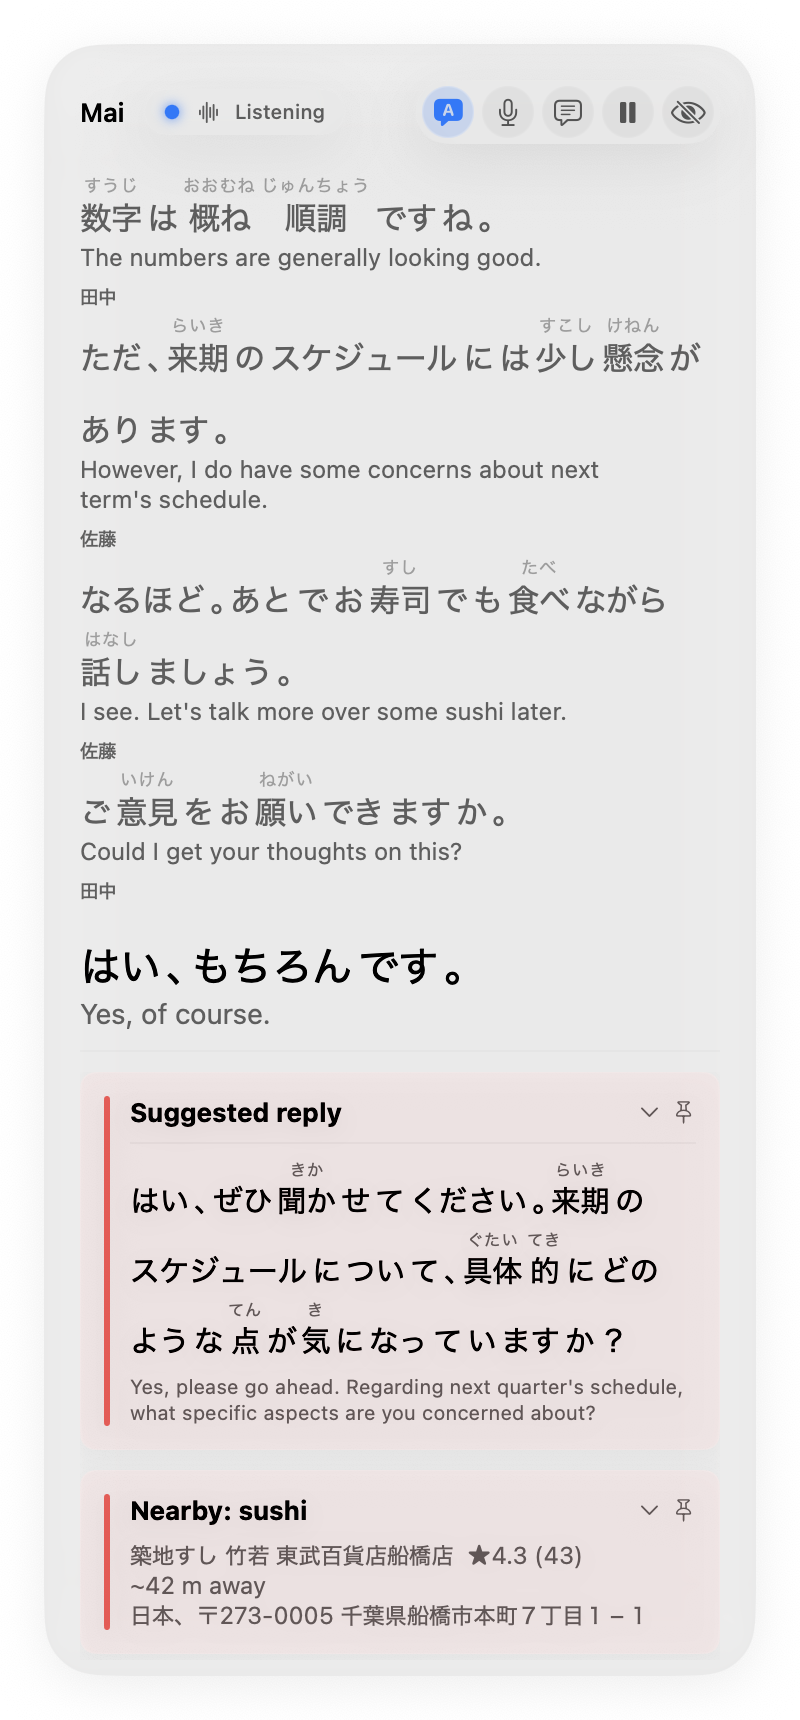
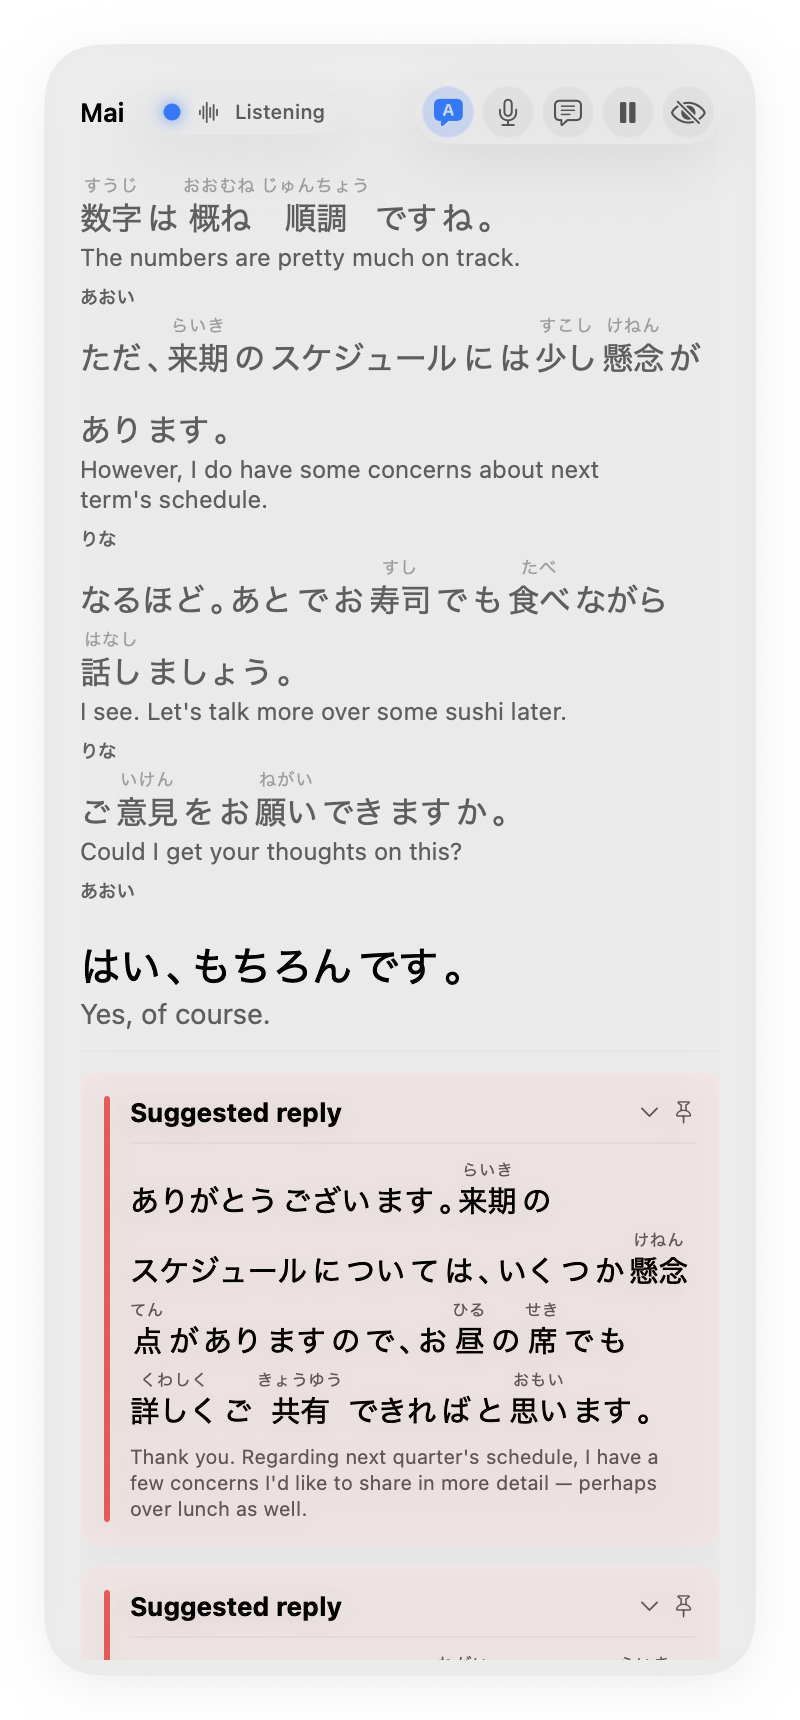
Rewrite the README around what Mai actually does
- Lead with English, then a short Japanese and Chinese summary
- Four Mission mode screenshots from scripted demos: a Japanese conversation with
  furigana and per-line translation, a film card with a real poster and the nearest
  cinema, a coaching card, and a close-up of the controls
- Install section pointing at the signed disk image, in English, Japanese, and
  Chinese, including the one-time right-click that an unnotarized build needs
- A plain how-to: getting each key and what it is for, granting the two permissions,
  what every button does, and where the panel goes, with the button and pause
  explanations repeated in Japanese and Chinese
- Explain the redaction layer in the privacy section, including what it does not cover

diff --git a/README.md b/README.md
@@ -1,141 +1,239 @@
 # Mai
 
-Mai is an ambient awareness app for macOS. It listens to the microphone and the system
-audio of a call, watches the screen, and surfaces small, sourced information cards in
-real time. It is trilingual (English, Japanese, Chinese), shows a live transcript with
-real speaker names and furigana or pinyin as true ruby, and can suggest a sentence to
-say back in the language the other person is speaking.
+Mai is an ambient awareness app for macOS. It listens to your microphone and to the
+other side of a call, watches your screen, and quietly surfaces small, sourced cards
+while you talk. It reads Japanese and Chinese with furigana and pinyin above the
+characters, translates each line as it lands, and can suggest a sentence to say back
+in the language the other person is speaking.
 
-Everything runs on your own accounts. You bring your own API keys, capture stays on
-your machine, and there is no backend and no telemetry. The repo is the whole product.
+Everything runs on your own API keys. Nothing is sent anywhere except to the providers
+you configure, and personal details are stripped out before that happens.
+
+**日本語:** Mai は macOS 用の常時待機型アシスタントです。会話をリアルタイムで文字起こしし、漢字にはふりがな、各行には翻訳が付きます。相手の言語のまま返せる一文を提案し、話題に関連する情報カードを静かに表示します。API キーはご自身のものを使い、送信前に個人情報は自動で伏せられます。
+
+**中文:** Mai 是一款 macOS 常驻感知应用。它实时转写对话，为汉字标注拼音并逐行翻译，还能用对方所说的语言给出可直接说出口的回复建议，并安静地推送相关信息卡片。使用你自己的 API 密钥，发送前会自动隐去个人信息。
+
+---
+
+## What it looks like
+
+Mai's resting state is **Mission mode**: a floating panel at the top right that stays
+in front of every app, including full-screen calls, without stealing focus. It uses
+Liquid Glass on macOS 26 so it reads as a real system surface rather than a window
+parked on top of your work, and falls back to standard materials on older systems.
+
+A Japanese conversation, with furigana above the kanji, an English translation under
+every line, and a suggested reply you could say back:
+
+![Mission mode showing a Japanese conversation with furigana and translations](docs/images/mission-japanese.png)
+
+Two friends talking about a film. Mai pulls the real poster and summary, and finds the
+closest cinema, without either of them asking it anything:
+
+![Mission mode showing a film card with a poster and a nearby cinema](docs/images/mission-movies.png)
+
+The conversation coach reads the moment and suggests a concrete next move, plus a
+sentence you could actually say:
+
+![Mission mode showing a coaching card and a suggested reply](docs/images/mission-coach.png)
+
+---
+
+## Install
+
+**English.** Download **Mai.dmg** from the
+[latest release](https://github.com/antswj/mai/releases/latest), open it, and drag Mai
+into your Applications folder. The first time you open it, right-click (or
+Control-click) the app and choose **Open**, then confirm. You only need to do that
+once; it is because the app is signed but not yet notarized by Apple. After that, open
+it normally.
+
+**日本語.** [最新リリース](https://github.com/antswj/mai/releases/latest)から **Mai.dmg**
+をダウンロードし、開いて Mai をアプリケーションフォルダにドラッグします。初回のみ、Mai を
+右クリック（または Control キーを押しながらクリック）して「開く」を選び、確認してください。
+これは Apple の公証がまだ済んでいないためで、次回からは通常どおり開けます。
+
+**中文.** 从[最新版本](https://github.com/antswj/mai/releases/latest)下载 **Mai.dmg**，
+打开后把 Mai 拖进「应用程序」文件夹。首次打开时，请右键（或按住 Control 点按）Mai 并选择
+「打开」，然后确认。这是因为应用已签名但尚未通过 Apple 公证，之后就可以正常打开了。
+
+---
+
+## How to use Mai
+
+### 1. Get your keys
+
+Mai does not have a server. It uses your own accounts, so you need to paste in a few
+keys the first time. Onboarding walks you through it and stores them in the macOS
+Keychain, never in a file.
+
+| Key | What it does | Where to get it |
+| --- | --- | --- |
+| Soniox | Turns speech into text. This is the one Mai really needs. | soniox.com, then add credit |
+| Anthropic | Writes the card answers and the suggested replies | console.anthropic.com |
+| Gemini | Reads your screen and does web searches with sources | aistudio.google.com |
+| Google Places | Finds places nearby | console.cloud.google.com, enable "Places API (New)" |
+| Hot Pepper | Restaurants in Japan | webservice.recruit.co.jp |
+
+Each one is free to create. Soniox is pay as you go, so put a little credit on it or
+you will get no transcript. Anything you skip just turns off that feature; Mai still
+runs.
+
+**日本語.** Mai にはサーバーがありません。ご自身のアカウントを使うため、初回に API キーを
+入力します。入力したキーは macOS の Keychain に保存され、ファイルには残りません。文字起こし
+には Soniox が必須で、残高がないと文字起こしは行われません。他のキーは省略でき、その機能だけ
+がオフになります。
+
+**中文.** Mai 没有服务器，使用的是你自己的账号，因此首次启动时需要填入 API 密钥。密钥保存在
+macOS 钥匙串中，不会写入文件。语音转写必须要有 Soniox 并保持余额，否则不会生成文字。其他密钥
+可以留空，只会关闭对应功能。
+
+### 2. Give it permission to hear and see
+
+macOS asks twice: once for the **microphone**, once for **screen and system audio
+recording**. Say yes to both, then quit Mai and open it again, because macOS only
+applies the screen permission after a restart. Without the microphone Mai hears
+nothing; without screen recording it cannot hear the other person on a call.
+
+### 3. Talk
+
+That is the whole thing. Mai sits in your menu bar and listens. When something in the
+conversation is worth knowing, a card slides in at the top right. When nothing is
+happening, it stays out of your way.
+
+### 4. The buttons
+
+Mission mode has five controls along the top:
+
+![The Mission mode control buttons](docs/images/mission-controls.png)
+
+From left to right:
+
+- **A** turns the translation line under each sentence on and off.
+- **Microphone** mutes you. Your own voice stops being transcribed, but the other
+  person and your screen keep going. Use this when you step away from a call.
+- **Speech bubble** opens a chat box. You can ask "what are they talking about" and
+  get an answer based on the real transcript, including what you said.
+- **Pause** stops everything. Nothing is captured, transcribed, read, or stored until
+  you press it again. This is a real switch, not a mute: it closes the connections.
+- **Eye** hides the panel. Mai keeps working; you just stop seeing it. Bring it back
+  from the menu bar.
+
+**日本語.** ミッションモードのボタンは左から、翻訳の表示切り替え、マイクのミュート（自分の声
+だけ停止し、相手と画面はそのまま）、チャット、一時停止（取得・文字起こし・画面読み取り・保存
+をすべて停止）、パネルを隠す、の五つです。
+
+**中文.** 任务模式顶部的五个按钮，从左到右依次是：切换翻译行、静音麦克风（只停用你自己的声音，
+对方与屏幕照常）、聊天、暂停（完全停止采集、转写、读屏与保存）、隐藏面板。
+
+### 5. Where the panel goes
+
+Mission mode appears on its own when there is something to show and slides away when
+things go quiet. To keep it up, turn on **Keep the HUD pinned open** in Settings. To
+summon it instantly from any app, set a **summon shortcut** in Settings.
+
+Open the full window from the menu bar when you want the whole transcript, every card,
+notes, and the spend meter. Closing that window returns Mai to the panel.
+
+---
 
 ## What it does
 
-- **Live transcript.** Microphone and system audio are transcribed separately and merged
-  into one speaker-attributed transcript. Remote speakers are named from the on-screen
-  call tiles when possible. An optional Translate switch adds a same-speed translation
-  line under each utterance.
-- **Cards.** When something in the conversation or on the screen is worth surfacing, a
-  card appears instantly and fills in live: local math and unit conversions, Wikipedia
-  entities with images and sources (resolved across languages), grounded web answers with
-  real links for anything current, and plain technical explanations. Nothing is ever
-  fabricated; a lookup that finds nothing says so.
-- **Suggested replies.** With the Reply toggle on, Mai drafts a response in the language
-  being spoken, with furigana or pinyin and a translation. The conversation coach can
-  also suggest a concrete sentence to say back to the other person, in their language,
-  grounded in recognized communication frameworks. Suggestions are drafts you choose to
-  say, adapt, or ignore. Both are off by default.
-- **Voice coaching.** Vocal features (pace, pauses, energy, rough pitch) are computed
-  locally from the audio; only that compact summary plus the transcript window is sent
-  for analysis. It never claims anyone is lying or diagnoses intent; that is a hard
-  filter, not a guideline.
-- **Meeting notes.** Start note-taking, hold the meeting, stop: Mai writes structured
-  notes, verifies every line against what was actually said, titles the meeting, and
-  saves a .docx plus a timestamped Markdown transcript to a folder you choose.
-- **Session transcripts.** Independent of note-taking, Mai can save a plain transcript
-  (no model calls, just what was said) every time a session ends, or on demand with the
-  Save Transcript button. Off by default.
-- **Two faces.** A glassy heads-up panel at the top right that floats over every app,
-  including full-screen calls, without stealing focus; and a full window with the
-  transcript, cards, chat assistant, notes, and a spend meter. A menu bar item is the
-  always-on anchor.
-- **Cost control.** An on-device voice activity detector (Silero VAD, local ONNX) opens
-  the transcription stream only while someone is speaking and tears it down in silence.
-  A spend meter shows the estimated daily cost from local counts.
-- **Self-watching capture.** Liveness is tracked per source. A dead microphone, a
-  rejected transcription stream, or audio that is heard but never forwarded surfaces as
-  an honest message in Health instead of a silent forever-"Capturing".
-- **Echo suppression.** With speakers instead of headphones, remote voices are not
-  transcribed twice: the mic copy is dropped by capture-time energy overlap plus text
-  matching.
+- **Live transcript.** Your microphone and the call audio are transcribed separately
+  and merged into one conversation, with each person named. Remote speakers get real
+  names from the on-screen call tiles when it can work them out.
+- **Reading aids.** Furigana above kanji and pinyin above hanzi, rendered properly
+  above the characters rather than in brackets after them. Turn on translation and
+  each line gets its meaning underneath.
+- **Cards.** Sourced answers that appear on their own: local arithmetic, encyclopedia
+  entries with real pictures, grounded web answers with links for anything current,
+  and plain explanations for technical questions. Nothing is invented; a lookup that
+  finds nothing says so.
+- **Suggested replies.** A sentence you could say next, in the language being spoken,
+  with reading aids and a translation. Off by default.
+- **Conversation coaching.** Vocal features (pace, pauses, energy, rough pitch) are
+  measured on your Mac and only that summary is sent, never the audio. It suggests a
+  move and, when the other person is speaking, something to say. It never claims
+  anyone is lying, and that is enforced in code, not just asked for in a prompt.
+- **Meeting notes.** Start note-taking, hold the meeting, stop. Mai writes structured
+  notes, checks every line against what was actually said, titles it, and saves a Word
+  document and a Markdown transcript to a folder you choose.
+- **Session transcripts.** Separately from notes, Mai can save a plain transcript when
+  a session ends, or on demand. Off by default.
+- **Costs stay low.** On-device voice detection opens the transcription stream only
+  while somebody is speaking. A spend meter shows the estimated daily cost.
 
-## Requirements
+## Privacy
 
-- macOS 15 or later, Swift 6 toolchain. Command Line Tools are enough; the Liquid Glass
-  look needs the macOS 26 SDK and falls back to standard materials on older toolchains.
-- Your own API keys: Anthropic or Groq (language), Soniox (real-time transcription,
-  funded), Gemini (screen reads and grounded search), Google Places and Hot Pepper
-  (nearby places). Each is optional except transcription; missing keys degrade features
-  rather than break the app.
-- First build fetches GRDB, ZIPFoundation, and ONNX Runtime once.
+Mai listens continuously, so this part matters.
 
-## Setup
+**Personal details are removed before anything is sent.** Names, emails, phone
+numbers, addresses, card numbers, and id numbers are found in each line on your Mac
+and swapped for stable placeholders, so a provider sees "Person A" where you see the
+real name. The mapping stays in memory on your machine, is never written to disk, and
+the real names are put back in everything you see. Because the placeholder is stable
+for the session, replies stay just as good. This runs once per line in the background,
+so it costs you nothing in speed. It covers text; the audio sent for transcription and
+the screen images sent for reading are the raw material itself. Detection is strong,
+not perfect. Settings, Privacy has a master switch and per-category controls.
 
-For the app, keys are entered in onboarding and stored in the macOS Keychain, never a
-file. For command line development, use a `.env`:
+Everything else stays local. Voice detection runs entirely on your Mac, so audio only
+leaves while somebody is actually speaking. **Pause** closes the connections outright.
+Coaching features are computed on-device and the raw audio is never uploaded. There is
+no telemetry and no server. Saved notes and transcripts go only to the folder you
+chose. See `SECURITY.md` for the full surface.
+
+## Build it yourself
 
 ```
-cp .env.example .env
+git clone https://github.com/antswj/mai.git
+cd mai
+cp .env.example .env          # for command line development only
 git config core.hooksPath .githooks
-```
-
-Fill in the keys on the named lines. `.env` is gitignored; the pre-commit hook blocks
-secrets and captured data from ever being committed.
-
-## Run
-
-Real capture needs Screen Recording and Microphone permissions, which only an app bundle
-can hold:
-
-```
 ./make-app.sh
 open Mai.app
 ```
 
-Grant both permissions, then quit and reopen (macOS applies Screen Recording after a
-relaunch). If permission prompts stop appearing after rebuilds, create a self-signed
-"Mai Dev" code-signing certificate in Keychain Access once, reset with
-`tccutil reset ScreenCapture com.mai.app` and `tccutil reset Microphone com.mai.app`,
-rebuild, and grant again; with a stable certificate the grants persist.
-
-Without the bundle, `swift run Mai` runs a dev mode with typed input and no capture.
+macOS 15 or later and a Swift 6 toolchain. Command Line Tools are enough; the Liquid
+Glass look needs the macOS 26 SDK and falls back to standard materials without it.
+`swift run Mai` runs a dev mode with typed input and no capture.
 
 ## Configure
 
-`config.toml` is the tuning surface: providers and model ids, languages, surfacing
-thresholds, voice activity gating, session rollover, transcript saving, coaching, echo
-suppression. Every setting has a comment. The most useful:
+`config.toml` is the tuning surface, and every setting has a comment. The ones worth
+knowing:
 
-- `[response] enabled`: the Reply toggle default (also a switch in the app).
-- `[session] save_transcript`: write a plain transcript on every session end.
-- `[surfacing] threshold` and `adaptive_quiet`: how chatty the cards are.
-- `[providers] llm`: `anthropic` or `groq`, with model ids under `[models]`.
+- `[response] enabled` turns suggested replies on, including the coach's.
+- `[privacy] redact_before_send` and its per-category switches.
+- `[session] save_transcript` writes a transcript every time a session ends.
+- `[surfacing] threshold` and `adaptive_quiet` control how chatty the cards are.
+- `[providers] llm` picks `anthropic` or `groq`, with model ids under `[models]`.
 
 ## Verify
 
 ```
 swift run MaiTests        # deterministic acceptance harness, no network, exits non-zero on failure
-swift test                # same behaviors as a swift-testing suite (needs full Xcode)
+swift test                # the same behaviors as a swift-testing suite (needs full Xcode)
 swift run MaiSmoke        # live checks against your real keys, per provider
+gitleaks git -v --exit-code 1 .
 ```
 
-Behavioral evals for the prompts (classifier, drafter, router, responder, coach, notes,
-assistant) live in `Evals/` and run with promptfoo; see `Evals/README.md`. Scan for
-secrets with `gitleaks git -v --exit-code 1 .`.
+Prompt evals live in `Evals/` and run with promptfoo; see `Evals/README.md`.
 
 ## Architecture
 
-- `Sources/MaiCore`: the engine. Plain Swift, zero UI dependencies: transcript ingestion,
-  triggers, the lookup router, card enrichment with hard timeouts, notes, transcripts,
-  coaching, health policy, readings (furigana and pinyin), and all pure logic.
-- `Sources/MaiCapture`: macOS capture. ScreenCaptureKit audio taps, Soniox streaming,
-  on-device VAD gating, screen watching with a cheap frame diff, vision reads.
-- `Sources/MaiApp`: SwiftUI faces. The floating panel, the full window, onboarding,
-  settings, diagnostics.
-- `Sources/MaiTests`: the acceptance harness executable. `Tests/`: the swift-testing
-  mirror. `Evals/`: prompt evals.
+- `Sources/MaiCore` is the engine: plain Swift, no UI dependencies. Transcript
+  ingestion, triggers, the lookup router, card enrichment with hard timeouts, notes,
+  transcripts, coaching, redaction, capture health, and the reading aids.
+- `Sources/MaiCapture` is macOS capture: ScreenCaptureKit audio, streaming
+  transcription, on-device voice detection, screen watching, vision reads.
+- `Sources/MaiApp` is the SwiftUI layer: the floating panel, the full window,
+  onboarding, settings, diagnostics.
+- `Sources/MaiTests` is the acceptance harness. `Tests/` mirrors it as a
+  swift-testing suite. `Evals/` holds the prompt evals.
 
-## Privacy
-
-Mai listens and watches continuously, so the captured audio, transcript, and screen reads
-are sensitive. They stay local and leave the machine only as calls to your own provider
-accounts. There is no telemetry. Voice activity detection runs entirely on device, so
-audio streams out only while someone is speaking. Pause is a real valve: it tears down
-capture and closes the transcription sockets; nothing is captured, transcribed, read, or
-stored until you resume. Saving a session transcript is off by default and writes only to
-the folder you chose. Vocal coaching features are computed locally; raw audio is never
-uploaded for analysis. The store, logs, and every saved meeting file are gitignored.
-See `SECURITY.md` for the full surface.
+The screenshots above come from the scripted demos in `docs/`, replayed in the app's
+simulated mode. Every name and line in them is fictional.
 
 When Mai shows a place from Hot Pepper, it includes the required credit
 "Powered by ホットペッパーグルメ Webサービス".
